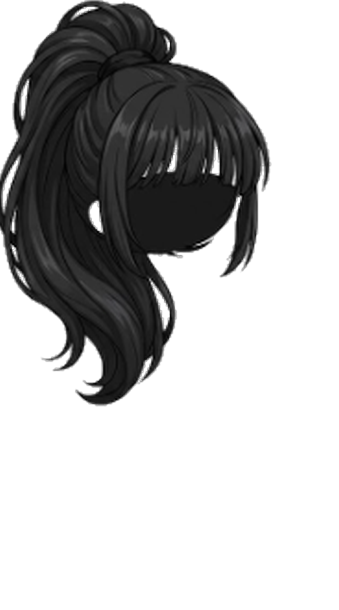
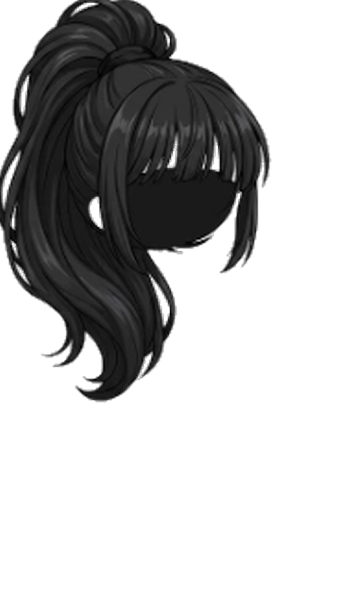
Better hair fit (face window + texture fill) and interactions: blink, head pat, jump, spin, speech bubbles
Claude-Session: https://claude.ai/code/session_013rW3iWcCHnwjRq7oDHQ6Zj

diff --git a/index.html b/index.html
@@ -20,10 +20,30 @@
 
   #stage{flex:1;min-height:0;display:flex;align-items:center;justify-content:center;padding:4px 0;}
   #doll{position:relative;height:100%;aspect-ratio:339/610;max-width:92vw;border-radius:24px;transition:background .3s;}
-  #doll img{position:absolute;top:3%;left:0;width:100%;height:97%;object-fit:contain;pointer-events:none;}
-  #doll img[src=""]{display:none;}
-  #doll.pop{animation:pop .25s ease;}
-  @keyframes pop{50%{transform:scale(1.03);}}
+  #doll{overflow:visible;touch-action:manipulation;cursor:pointer;}
+  #char{position:absolute;left:0;top:3%;width:100%;height:97%;transform-origin:50% 100%;animation:breathe 3s ease-in-out infinite;}
+  #char img{position:absolute;inset:0;width:100%;height:100%;object-fit:contain;pointer-events:none;user-select:none;-webkit-user-drag:none;}
+  #char img[src=""]{display:none;}
+  #L-face{opacity:0;}
+  #L-face.show{opacity:1;}
+  @keyframes breathe{50%{transform:scale(1.008,1.018);}}
+  #char.jump{animation:jump .55s cubic-bezier(.3,.7,.4,1);}
+  @keyframes jump{0%{transform:scale(1.06,.92);}35%{transform:translateY(-12%) scale(.96,1.05);}65%{transform:translateY(0) scale(1.05,.94);}100%{transform:none;}}
+  #char.pat{animation:pat .7s ease;}
+  @keyframes pat{0%,100%{transform:none;}20%{transform:scale(1.05,.93) rotate(-2deg);}45%{transform:scale(.98,1.03) rotate(2deg);}70%{transform:scale(1.03,.96) rotate(-1deg);}}
+  #char.spin{animation:spin .6s ease-in-out;}
+  @keyframes spin{0%{transform:scaleX(1);}25%{transform:scaleX(-1) translateY(-4%);}50%{transform:scaleX(1) translateY(-6%);}75%{transform:scaleX(-1) translateY(-3%);}100%{transform:scaleX(1);}}
+  #char.shy{animation:shy .9s ease;}
+  @keyframes shy{0%,100%{transform:none;}30%,70%{transform:rotate(-4deg) scale(.98);}}
+
+  #bubble{position:absolute;left:50%;top:-1%;transform:translate(-50%,-6px) scale(.6);opacity:0;
+    background:#fff;color:#c2557b;font-weight:700;font-size:16px;padding:8px 14px;border-radius:18px;white-space:nowrap;
+    box-shadow:0 3px 0 #f3c6d5;transition:opacity .2s,transform .25s cubic-bezier(.3,1.6,.5,1);pointer-events:none;z-index:5;}
+  #bubble::after{content:"";position:absolute;left:50%;bottom:-8px;margin-left:-8px;border:8px solid transparent;border-top-color:#fff;border-bottom:0;}
+  #bubble.show{opacity:1;transform:translate(-50%,0) scale(1);}
+  .fx{position:absolute;pointer-events:none;font-size:22px;z-index:4;animation:fly 1.1s ease-out forwards;}
+  @keyframes fly{0%{transform:translate(-50%,-50%) scale(.4);opacity:1;}100%{transform:translate(calc(-50% + var(--dx)),calc(-50% + var(--dy))) scale(1.1) rotate(var(--r));opacity:0;}}
+  #hint{position:absolute;bottom:2%;left:50%;transform:translateX(-50%);font-size:12px;color:#c08aa0;background:#fff8;padding:3px 10px;border-radius:99px;pointer-events:none;transition:opacity .5s;}
 
   nav{display:flex;gap:6px;padding:6px 12px 0;}
   nav button{flex:1;border:0;border-radius:14px 14px 0 0;padding:10px 0;font-size:15px;font-weight:600;background:#f6dbe4;color:#a4708a;}
@@ -47,9 +67,14 @@
 
   <div id="stage">
     <div id="doll">
-      <img id="L-hairBack" src="" alt="">
-      <img id="L-base" src="img/base.png" alt="Q 版小人">
-      <img id="L-hairFront" src="" alt="">
+      <div id="char">
+        <img id="L-hairBack" src="" alt="">
+        <img id="L-base" src="img/base.png" alt="Q 版小人">
+        <img id="L-face" src="img/face/blink.png" alt="">
+        <img id="L-hairFront" src="" alt="">
+      </div>
+      <div id="bubble"></div>
+      <div id="hint">點點她、摸摸頭看看 ♡</div>
     </div>
   </div>
 
@@ -108,8 +133,9 @@ function render(){
     else if (it.color) d.innerHTML = `<div class="swatch" style="background:${it.color}"></div>`;
     else d.innerHTML = `<span class="none">${it.name || '無'}</span>`;
     d.onclick = () => {
+      if (pick[cat.id] === it.id) return;
       pick[cat.id] = it.id; store.set(pick); render();
-      $('doll').classList.remove('pop'); void $('doll').offsetWidth; $('doll').classList.add('pop');
+      react(cat.id);
     };
     $('panel').appendChild(d);
   });
@@ -130,7 +156,89 @@ $('save').onclick = async () => {
   a.download = '換裝小屋.png'; a.href = cv.toDataURL('image/png'); a.click();
 };
 
+// ===== 互動：眨眼、點她、摸頭、換裝反應、發呆時說話 =====
+const LINES = {
+  head:  ['嘿嘿～', '好舒服～', '再摸一下嘛', '喜歡被摸頭♡', '呼嚕嚕～'],
+  body:  ['好癢！', '哇！', '嘻嘻', '陪我玩～', '跳跳！'],
+  hair:  ['好看嗎？', '換新髮型囉！', '這個我喜歡～', '轉一圈給你看！'],
+  bg:    ['這裡好漂亮～', '換個地方玩！', '哇～'],
+  idle:  ['在發呆嗎？', '點點我嘛～', '今天想穿什麼呢？', '幫我換個髮型？'],
+  many:  ['不要一直戳啦！', '好啦好啦～', '頭暈了…'],
+};
+const rnd = a => a[Math.floor(Math.random() * a.length)];
+const face = $('L-face'), ch = $('char'), doll = $('doll');
+let faceUntil = 0, lastTouch = Date.now(), taps = [];
+
+function setFace(kind, ms){
+  face.src = 'img/face/' + kind + '.png';
+  face.classList.add('show');
+  faceUntil = Date.now() + ms;
+  setTimeout(() => { if (Date.now() >= faceUntil) face.classList.remove('show'); }, ms);
+}
+function anim(name){
+  ch.style.animation = 'none'; void ch.offsetWidth; ch.style.animation = '';
+  ch.className = name;
+  clearTimeout(anim.t); anim.t = setTimeout(() => ch.className = '', 950);
+}
+function say(text){
+  const b = $('bubble'); b.textContent = text; b.classList.add('show');
+  clearTimeout(say.t); say.t = setTimeout(() => b.classList.remove('show'), 1800);
+}
+function burst(x, y, chars, n){
+  for (let i = 0; i < n; i++){
+    const e = document.createElement('div');
+    e.className = 'fx'; e.textContent = rnd(chars);
+    e.style.left = x + 'px'; e.style.top = y + 'px';
+    e.style.color = rnd(['#f27ea4', '#f6a5c0', '#ffb3c7', '#f9c74f', '#b8a0f0']);
+    const ang = -Math.PI / 2 + (Math.random() - .5) * 2.2, d = 60 + Math.random() * 60;
+    e.style.setProperty('--dx', Math.cos(ang) * d + 'px');
+    e.style.setProperty('--dy', Math.sin(ang) * d + 'px');
+    e.style.setProperty('--r', (Math.random() * 60 - 30) + 'deg');
+    doll.appendChild(e); setTimeout(() => e.remove(), 1200);
+  }
+}
+function buzz(){ try { navigator.vibrate && navigator.vibrate(15); } catch(e){} }
+
+function react(kind, x, y){
+  lastTouch = Date.now(); $('hint').style.opacity = 0;
+  const r = doll.getBoundingClientRect();
+  if (x === undefined){ x = r.width / 2; y = r.height * .3; }
+  if (kind === 'hair'){ anim('spin'); setFace('happy', 1300); say(rnd(LINES.hair)); burst(x, y, ['✦', '✧', '♡'], 8); }
+  else if (kind === 'bg'){ anim('jump'); setFace('happy', 900); say(rnd(LINES.bg)); burst(x, y, ['✦', '✧'], 6); }
+}
+
+doll.addEventListener('pointerdown', ev => {
+  const r = doll.getBoundingClientRect();
+  const x = ev.clientX - r.left, y = ev.clientY - r.top, fy = y / r.height;
+  if (fy > .95) return;
+  buzz(); lastTouch = Date.now(); $('hint').style.opacity = 0;
+  taps = taps.filter(t => Date.now() - t < 2500); taps.push(Date.now());
+  if (taps.length >= 6){ taps = []; anim('shy'); setFace('blink', 1200); say(rnd(LINES.many)); burst(x, y, ['💫', '✧'], 5); return; }
+  if (fy < .42){ anim('pat'); setFace('happy', 1200); say(rnd(LINES.head)); burst(x, y, ['♥', '♡', '❤'], 7); }
+  else { anim('jump'); setFace('happy', 700); say(rnd(LINES.body)); burst(x, y, ['✦', '♪', '♡'], 6); }
+});
+
+// 自然眨眼
+(function blinkLoop(){
+  setTimeout(() => {
+    if (Date.now() > faceUntil){
+      setFace('blink', 130);
+      if (Math.random() < .25) setTimeout(() => setFace('blink', 120), 260);
+    }
+    blinkLoop();
+  }, 2200 + Math.random() * 3200);
+})();
+
+// 太久沒理她，她會自己說話
+setInterval(() => {
+  if (Date.now() - lastTouch > 14000){ lastTouch = Date.now(); say(rnd(LINES.idle)); anim('jump'); }
+}, 2000);
+
+// 預先載入表情圖，避免第一次眨眼閃一下
+['blink', 'happy'].forEach(k => { const i = new Image(); i.src = 'img/face/' + k + '.png'; });
+
 render();
+setTimeout(() => { say('嗨～今天想怎麼打扮我？'); setFace('happy', 1200); }, 600);
 </script>
 </body>
 </html>

diff --git a/README.md b/README.md
@@ -10,9 +10,11 @@
 - 圖片素材在 `img/`，**所有圖層都是同一個畫布 339×610**，疊上去就對齊：
   - `img/base.png`：素體（含臉，無頭髮），透明背景。
   - `img/hair/N_back.png`（在身體後面）、`N_front.png`（瀏海，蓋在臉上）、`N_icon.png`（選單小圖）。
-  - 疊放順序：hairBack → base →（之後的衣服）→ hairFront。
+  - `img/face/blink.png`、`happy.png`：閉眼／笑眼表情，蓋在眼睛上（眨眼、被摸頭時用）。
+  - 疊放順序：hairBack → base →（之後的衣服）→ face → hairFront。
+- 互動（index.html 下半部）：自然眨眼、點頭部＝摸頭（笑眼＋愛心）、點身體＝跳一下、換髮型＝轉圈、太久沒點會自己說話、連點 6 下會害羞。台詞在 `LINES`。
 - `index.html` 裡的 `CATS` 是素材清單，加新髮型/衣服/背景只要加一行。選擇存在 localStorage `dressup`。「存成照片」用 canvas 合成下載。
-- 髮型對齊工具（在 Claude 工作區，非 repo）：把頭髮依「臉洞」中心和下緣對到素體的頭（頭中心 x=168、下巴 y=248，畫布座標），front 層只留瀏海線以上並淡出 8px。
+- 髮型對齊做法：把頭髮依「臉洞」中心和下緣對到素體的頭（頭中心 x=168、下巴 y=248，畫布座標）。back 層＝整頂頭髮放身體後面；front 層＝下巴以上、扣掉臉部橢圓（cx168 cy222 rx66 ry56，羽化 3px）的頭髮，頭頂沒蓋到的空隙用附近頭髮的紋理補。眼睛位置：左 (130,192)、右 (209,192)。
 - 素材來源：使用者用 ChatGPT / Gemini 之類的 AI 生成（同一張素體、只換衣服或頭髮），再傳給 Claude 去背、對齊。
   - 去背做法：從邊緣 flood fill，遇到深色輪廓線停下（亮度門檻約 190），再只保留最大的連通區塊，邊緣輕微模糊。
   - 要使用者「下載原圖」再傳，不要截圖（截圖太小會糊）；提示詞要寫「純白背景、完全相同的人物/姿勢/大小/位置」。
